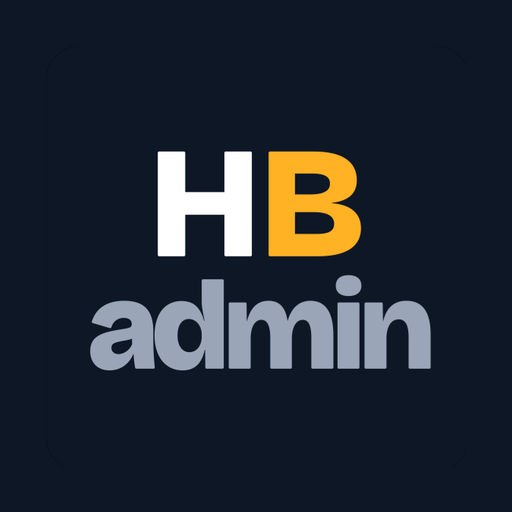
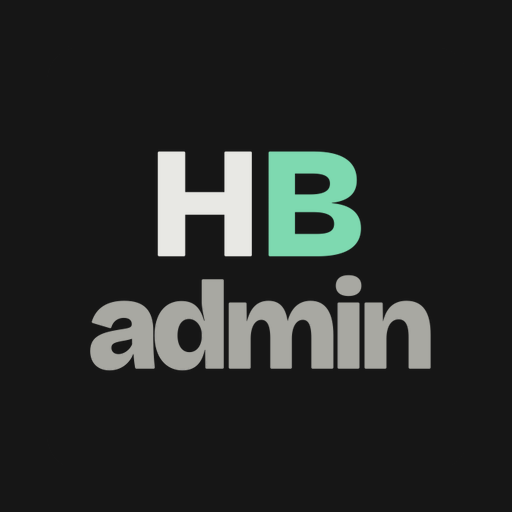
Unificar colores con la web: paleta noche, piedra y menta
Sustituye azul noche y ámbar por la paleta actual de la web HealthBox en
estilos, modo oscuro, theme-color, manifiestos e iconos. Sube la versión
de la caché del service worker.

Claude-Session: https://claude.ai/code/session_01RHqxhwerbZzU7BEketTRHA

diff --git a/css/styles.css b/css/styles.css
@@ -1,21 +1,24 @@
 /* HealthBox · app y panel
-   Mismo sistema visual que la web (healthbox): base clara con texto Noche,
-   Noche/Medianoche solo en momentos puntuales (.dark) y Ámbar en pequeñas dosis. */
+   Misma paleta que la web (healthbox): base clara piedra con texto Noche,
+   Noche/Medianoche solo en momentos puntuales (.dark) y Menta (--ambar) en pequeñas dosis. */
 :root {
-  --noche: #0E1726;
-  --medianoche: #182540;
-  --bruma: #9AA6B8;
-  --claro: #F3F4F7;
-  --ambar: #FFB224;
+  --noche: #161616;            /* casi negro */
+  --medianoche: #242422;       /* superficie sobre oscuro */
+  --bruma: #A8A8A2;            /* gris medio para leerse sobre negro */
+  --claro: #E8E8E4;            /* gris piedra */
+  --ambar: #7ED9B0;            /* Menta (se mantiene el nombre, igual que en la web) */
 
-  --bg: #ffffff;
+  --bg: #FAFAF8;
   --surface: var(--claro);
   --fg: var(--noche);
-  --muted: #4f5b70;
-  --line: #dfe2e9;
+  --muted: #5E5E59;
+  --line: #DEDED9;
+  --surface-hover: #DEDED9;
+  --card: var(--bg);           /* tarjetas del panel sobre fondo piedra */
   --turf: var(--ambar);
   --turf-ink: var(--noche);
-  --turf-soft: #fff1d6;
+  --turf-soft: #DCF4E9;        /* menta muy rebajada */
+  --shadow: 22, 22, 22;
   --danger: #b4232f;
   --danger-soft: #fde8ea;
 
@@ -28,8 +31,8 @@
   color-scheme: light;
 }
 .dark {
-  --bg: var(--noche); --surface: var(--medianoche); --fg: var(--claro); --muted: var(--bruma); --line: #26344f;
-  --turf-soft: #393326;
+  --bg: var(--noche); --surface: var(--medianoche); --fg: var(--claro); --muted: var(--bruma); --line: #34342F;
+  --turf-soft: #1E3A2E;
   color-scheme: dark; background: var(--bg); color: var(--fg);
 }
 
@@ -57,7 +60,7 @@ h1, h2, h3 { font-family: var(--display); line-height: 1.08; letter-spacing: -0.
 .gate-hero .brand-logo { height: 32px; margin-bottom: 18px; }
 /* Logo de fondo blanco sobre fondos oscuros: dentro de su recuadro blanco. */
 /* Logo de fondo oscuro sobre la cabecera blanca: dentro de su recuadro azul noche. */
-.brand-logo.tile-dark { box-sizing: content-box; height: 34px; padding: 5px 10px; background: #0E1726; border-radius: 10px; }
+.brand-logo.tile-dark { box-sizing: content-box; height: 34px; padding: 5px 10px; background: var(--noche); border-radius: 10px; }
 .gate-hero .brand-logo.tile { box-sizing: content-box; height: 56px; padding: 10px 16px; background: #fff; border-radius: 12px; justify-self: start; }
 .logo-row { display: flex; align-items: center; gap: 12px; margin: 0; }
 .logo-row .tag { font-weight: 500; font-size: 0.9rem; color: var(--muted); white-space: nowrap; }
@@ -84,7 +87,7 @@ em.mark { font-style: normal; background: linear-gradient(transparent 88%, var(-
 .timer {
   justify-self: start; display: grid; gap: 4px; min-width: 190px; margin-top: 6px;
   background: var(--medianoche); color: var(--claro); border-radius: 16px; padding: 14px 18px;
-  box-shadow: 0 14px 40px rgba(0, 0, 0, .3);
+  box-shadow: 0 14px 40px rgba(var(--shadow), .3);
 }
 .timer .label { font-size: 0.8rem; color: color-mix(in srgb, var(--claro) 75%, transparent); font-weight: 500; }
 .timer .clock { font-family: var(--mono); font-size: 2rem; line-height: 1; font-variant-numeric: tabular-nums; }
@@ -194,7 +197,7 @@ textarea.input { min-height: 90px; resize: vertical; }
   background: var(--surface); border-radius: var(--radius);
   transition: background .15s ease;
 }
-.video-item:hover { background: #eaecf1; }
+.video-item:hover { background: var(--surface-hover); }
 .thumb {
   position: relative; aspect-ratio: 16 / 11; border-radius: var(--radius-sm); overflow: hidden;
   background: var(--turf-soft); color: var(--noche); display: grid; place-items: center;
@@ -202,7 +205,7 @@ textarea.input { min-height: 90px; resize: vertical; }
 .thumb img, .thumb video { position: absolute; inset: 0; width: 100%; height: 100%; object-fit: cover; }
 .thumb .play {
   position: relative; width: 34px; height: 34px; border-radius: 50%; background: var(--ambar);
-  display: grid; place-items: center; box-shadow: 0 4px 12px rgba(14, 23, 38, .25);
+  display: grid; place-items: center; box-shadow: 0 4px 12px rgba(var(--shadow), .25);
 }
 .thumb .play::after { content: ""; margin-left: 3px; border-left: 11px solid var(--noche); border-top: 7px solid transparent; border-bottom: 7px solid transparent; }
 .video-item .meta { min-width: 0; display: grid; gap: 2px; }
@@ -251,7 +254,7 @@ textarea.input { min-height: 90px; resize: vertical; }
   position: fixed; left: 50%; bottom: max(20px, env(safe-area-inset-bottom)); z-index: 50;
   transform: translate(-50%, 20px); opacity: 0; pointer-events: none;
   background: var(--noche); color: var(--claro); padding: 12px 18px; border-radius: 12px; font-weight: 500; font-size: 0.95rem;
-  max-width: calc(100% - 32px); box-shadow: 0 14px 40px rgba(14, 23, 38, .3);
+  max-width: calc(100% - 32px); box-shadow: 0 14px 40px rgba(var(--shadow), .3);
   transition: opacity .2s ease, transform .2s ease;
 }
 .toast.show { opacity: 1; transform: translate(-50%, 0); }
@@ -260,7 +263,7 @@ textarea.input { min-height: 90px; resize: vertical; }
 
 /* ================= Panel de administración ================= */
 body.admin { background: var(--surface); }
-.admin .topbar { background: color-mix(in srgb, #fff 90%, transparent); }
+.admin .topbar { background: color-mix(in srgb, var(--bg) 90%, transparent); }
 .admin-wrap { max-width: 1120px; margin: 0 auto; padding: 22px 20px 60px; }
 .tabs { display: flex; gap: 4px; overflow-x: auto; border-bottom: 1px solid var(--line); margin-bottom: 22px; scrollbar-width: none; }
 .tab {
@@ -271,12 +274,12 @@ body.admin { background: var(--surface); }
 .tab[aria-selected="true"] { color: var(--fg); border-bottom-color: var(--ambar); }
 .stats {
   display: grid; grid-template-columns: repeat(auto-fit, minmax(170px, 1fr));
-  background: #fff; border: 1px solid var(--line); border-radius: var(--radius); margin-bottom: 22px; overflow: hidden;
+  background: var(--card); border: 1px solid var(--line); border-radius: var(--radius); margin-bottom: 22px; overflow: hidden;
 }
 .stat { padding: 18px 20px; display: grid; gap: 2px; border-left: 1px solid var(--line); margin-left: -1px; }
 .stat b { font-family: var(--display); font-size: 2rem; font-weight: 800; letter-spacing: -0.02em; line-height: 1.1; }
 .stat span { color: var(--muted); font-size: 0.88rem; line-height: 1.35; }
-.panel { background: #fff; border: 1px solid var(--line); border-radius: var(--radius); padding: 20px; margin-bottom: 18px; }
+.panel { background: var(--card); border: 1px solid var(--line); border-radius: var(--radius); padding: 20px; margin-bottom: 18px; }
 .panel h2 { margin: 0 0 14px; font-size: 1.35rem; font-weight: 700; }
 .panel-head { display: flex; justify-content: space-between; align-items: center; gap: 12px; flex-wrap: wrap; margin-bottom: 14px; }
 .panel-head h2 { margin: 0; }
@@ -316,9 +319,9 @@ tr.off td { color: var(--muted); }
 
 dialog {
   border: 0; border-radius: 18px; padding: 0; width: min(520px, calc(100% - 24px));
-  background: #fff; color: var(--fg); box-shadow: 0 30px 60px rgba(14, 23, 38, .28);
+  background: var(--card); color: var(--fg); box-shadow: 0 30px 60px rgba(var(--shadow), .28);
 }
-dialog::backdrop { background: rgba(14, 23, 38, .55); }
+dialog::backdrop { background: rgba(var(--shadow), .55); }
 dialog form { padding: 26px; }
 dialog h2 { margin: 0 0 18px; font-size: 1.5rem; font-weight: 700; }
 .dialog-actions { display: flex; justify-content: flex-end; gap: 10px; margin-top: 8px; flex-wrap: wrap; }

diff --git a/index.html b/index.html
@@ -5,7 +5,7 @@
   <meta name="viewport" content="width=device-width, initial-scale=1, viewport-fit=cover">
   <title>HealthBox</title>
   <meta name="description" content="Pausas activas de 5 minutos con estiramientos guiados en tu empresa.">
-  <meta name="theme-color" content="#ffffff">
+  <meta name="theme-color" content="#FAFAF8">
   <link rel="manifest" href="manifest.webmanifest">
   <link rel="icon" href="favicon.ico" sizes="48x48">
   <link rel="icon" type="image/png" sizes="32x32" href="icons/favicon-32.png">
@@ -123,7 +123,7 @@
         <div class="progress-bar" aria-hidden="true"><i id="watch-bar" style="width:0"></i></div>
       </div>
       <div id="done-card" class="done-card" hidden>
-        <svg viewBox="0 0 44 44" aria-hidden="true"><circle cx="22" cy="22" r="22" fill="currentColor"/><path d="M13 22.5l6 6 12-13" fill="none" stroke="#0E1726" stroke-width="4" stroke-linecap="round" stroke-linejoin="round"/></svg>
+        <svg viewBox="0 0 44 44" aria-hidden="true"><circle cx="22" cy="22" r="22" fill="currentColor"/><path d="M13 22.5l6 6 12-13" fill="none" stroke="#161616" stroke-width="4" stroke-linecap="round" stroke-linejoin="round"/></svg>
         <div><strong>Vídeo completado</strong><span id="done-text">Queda registrado.</span></div>
       </div>
     </div>

diff --git a/admin.html b/admin.html
@@ -5,7 +5,7 @@
   <meta name="viewport" content="width=device-width, initial-scale=1, viewport-fit=cover">
   <title>HealthBox · Administración</title>
   <meta name="robots" content="noindex">
-  <meta name="theme-color" content="#ffffff">
+  <meta name="theme-color" content="#FAFAF8">
   <link rel="manifest" href="admin.webmanifest">
   <link rel="icon" href="favicon.ico" sizes="48x48">
   <link rel="icon" type="image/png" sizes="32x32" href="icons/favicon-32.png">

diff --git a/sw.js b/sw.js
@@ -1,7 +1,7 @@
 // Service worker: permite instalar la app y abrirla sin conexión.
 // Los datos (Supabase) y los vídeos nunca se guardan en caché.
 // Si cambias archivos de la app, sube el número de versión.
-const VERSION = "healthbox-v15";
+const VERSION = "healthbox-v16";
 const SHELL = [
   "./",
   "index.html",
